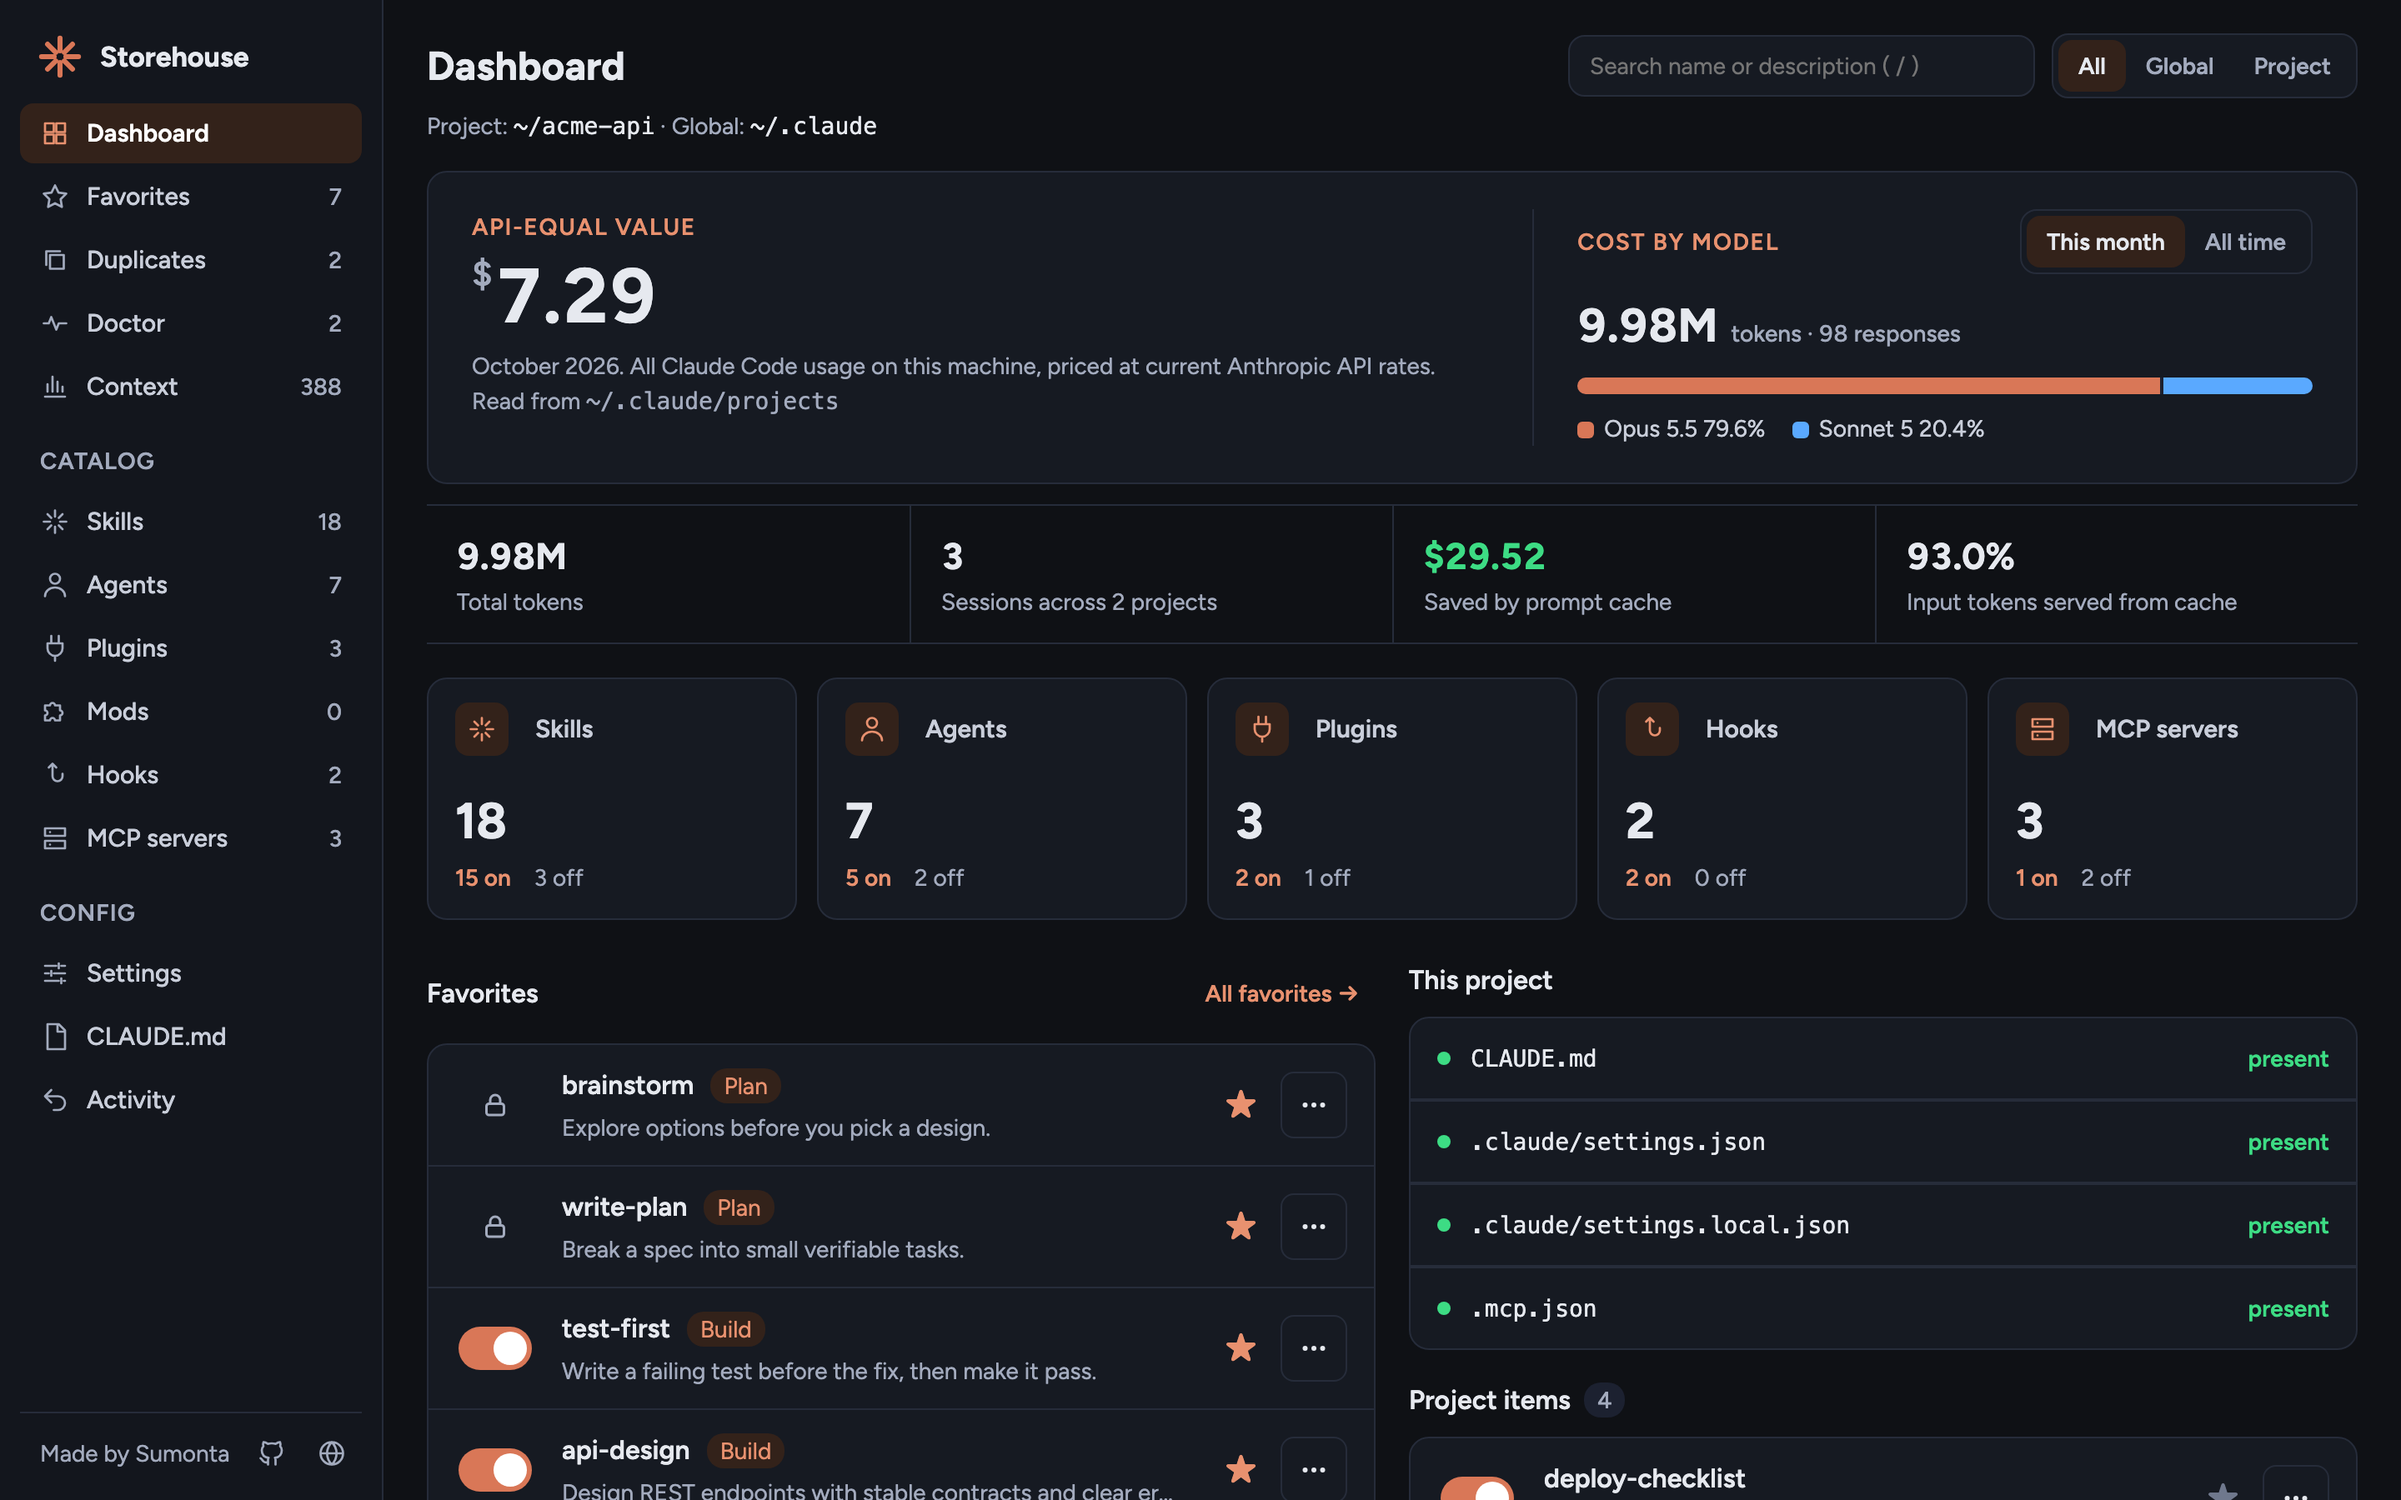
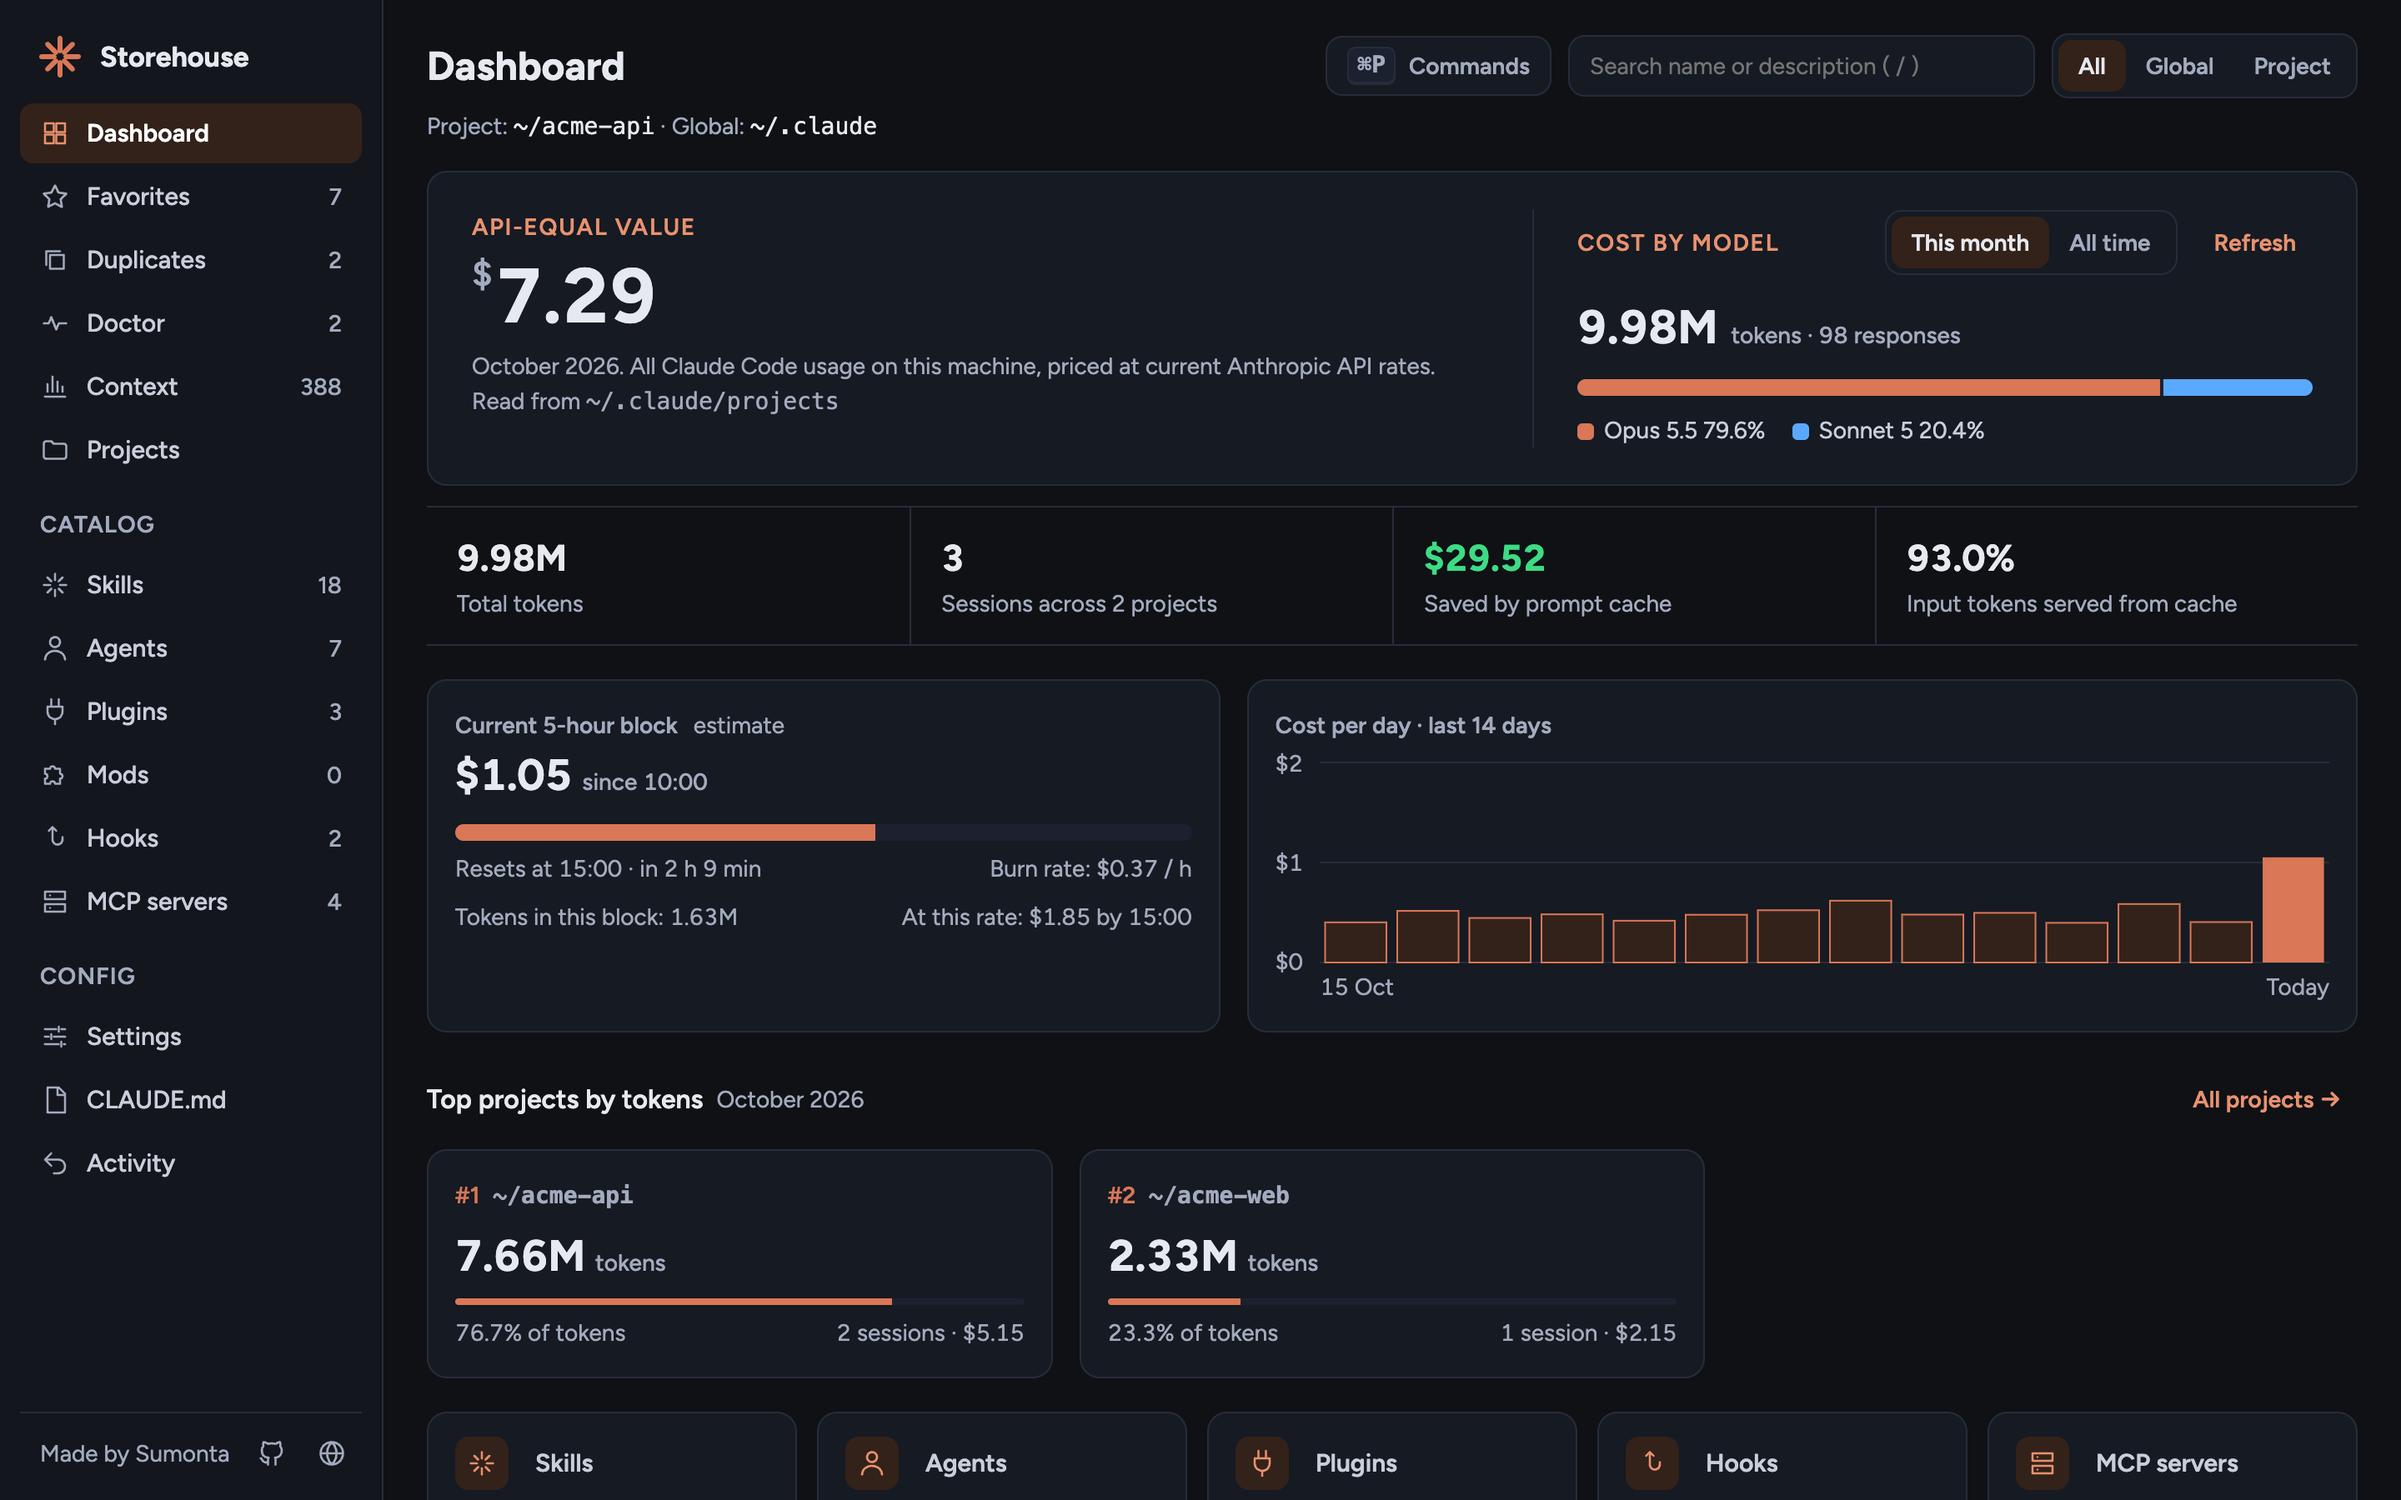
docs(site): add the Projects page to the site and README
New feature block, demo tab, and README section for cost by project and session.
New projects.png, and a new dashboard.png with the top-projects row.

diff --git a/site/index.html b/site/index.html
@@ -161,6 +161,7 @@
               <button role="tab" aria-selected="false" data-page="dups">Duplicates</button>
               <button role="tab" aria-selected="false" data-page="doctor">Doctor</button>
               <button role="tab" aria-selected="false" data-page="context">Context</button>
+              <button role="tab" aria-selected="false" data-page="projects">Projects</button>
               <button role="tab" aria-selected="false" data-page="skills">Skills</button>
               <button role="tab" aria-selected="false" data-page="agents">Agents</button>
               <button role="tab" aria-selected="false" data-page="plugins">Plugins</button>
@@ -207,7 +208,7 @@
             </p>
             <ul>
               <li>API-equal cost of your Claude Code use, by model</li>
-              <li>Tokens, sessions, projects, and prompt-cache savings</li>
+              <li>Tokens, sessions, prompt-cache savings, and your top 3 projects</li>
               <li>Reads token counts and tool names, never prompts or message text</li>
               <li>Counts for skills, agents, plugins, hooks, and MCP servers</li>
             </ul>
@@ -216,7 +217,7 @@
           <figure class="frame">
             <img
               src="screenshots/dashboard.png"
-              alt="Dashboard with an API-equal value band, token totals, item counts, favorites, and the project file list"
+              alt="Dashboard with an API-equal value band, token totals, the current 5-hour block, cost per day, and the top projects by tokens"
               loading="lazy"
               width="2880"
               height="1800"
@@ -454,6 +455,33 @@
             <img
               src="screenshots/settings-effective.png"
               alt="Settings page, Effective view: a table of keys with the value Claude Code uses, the file it comes from, and crossed-out values from lower files"
+              loading="lazy"
+              width="2880"
+              height="1800"
+              data-zoom
+            />
+          </figure>
+        </div>
+
+        <div class="wrap feature">
+          <div class="txt">
+            <h3>Cost by project and session</h3>
+            <p>
+              The Dashboard shows your top 3 projects by tokens. The Projects page lists every project, and one click
+              opens the cost of each session in it.
+            </p>
+            <ul>
+              <li>Sessions, tokens, cost, and last active for each project</li>
+              <li>Each session with its start time, length, models, tokens, and cost</li>
+              <li>This month or all time, the same switch as the usage band</li>
+              <li>Reads token counts only, never prompts or message text</li>
+            </ul>
+            <a class="more" href="#demo" data-demo="projects">Open Projects in the demo →</a>
+          </div>
+          <figure class="frame">
+            <img
+              src="screenshots/projects.png"
+              alt="Projects page for one project: cost, tokens, sessions, and longest session, and a table of sessions with start time, length, model, tokens, and cost"
               loading="lazy"
               width="2880"
               height="1800"

diff --git a/site/site.js b/site/site.js
@@ -8,6 +8,7 @@
     dups: 'Duplicates',
     doctor: 'Doctor',
     context: 'Context',
+    projects: 'Projects',
     skills: 'Skills',
     agents: 'Agents',
     plugins: 'Plugins',

diff --git a/README.md b/README.md
@@ -30,7 +30,7 @@ npx claude-storehouse
 ```
 
 <p align="center">
-  <img src="https://raw.githubusercontent.com/Sumonta056/claude-storehouse/main/docs/images/dashboard.png" alt="Dashboard: API-equal cost and token usage by model, counts for skills, agents, plugins, hooks and MCP servers, favorites, and the project files" width="100%">
+  <img src="https://raw.githubusercontent.com/Sumonta056/claude-storehouse/main/docs/images/dashboard.png" alt="Dashboard: API-equal cost and token usage by model, the current 5-hour block, cost per day, and the top projects by tokens" width="100%">
 </p>
 
 ---
@@ -67,7 +67,7 @@ After a few months with Claude Code you have dozens of skills, a handful of plug
 
 - Counts for skills, agents, plugins, hooks, and MCP servers, with how many are on and off.
 - API-equal cost of your Claude Code use, by model, from the session files in `~/.claude/projects`.
-- Tokens, sessions, projects, and how much the prompt cache saved.
+- Tokens, sessions, prompt-cache savings, the current 5-hour block, the cost per day, and your top 3 projects by tokens.
 - Session files give only token counts, tool names, and the skill, agent, or MCP server name of each call. Never prompts or message text.
 - Your favorites, recent changes, and which Claude Code files this project has.
 
@@ -80,6 +80,16 @@ After a few months with Claude Code you have dozens of skills, a handful of plug
 - Use in the last 30 days for each skill, agent, and MCP server, with an Unused 30 d filter, a sort by use, and "Switch off N" for the unused ones.
 
 ![Skills page with on/off switches, 30-day use chips, an Unused 30 d filter, a sort by use, and a banner to switch off unused skills](https://raw.githubusercontent.com/Sumonta056/claude-storehouse/main/docs/images/skills.png)
+
+### Cost by project and session
+
+- The Dashboard shows your top 3 projects by tokens. Click a card to open that project.
+- The Projects page lists every project with its sessions, tokens, cost, and last active time.
+- Click a project to see each session: start time, length, models, responses, tokens, and cost.
+- Switch between this month and all time. The search box filters project names.
+- A session shows its id, not a title: Storehouse never reads prompts or message text.
+
+![Projects page for one project: cost, tokens, sessions, and longest session, and a table of sessions with start time, length, model, tokens, and cost](https://raw.githubusercontent.com/Sumonta056/claude-storehouse/main/docs/images/projects.png)
 
 ### Find duplicates
 
